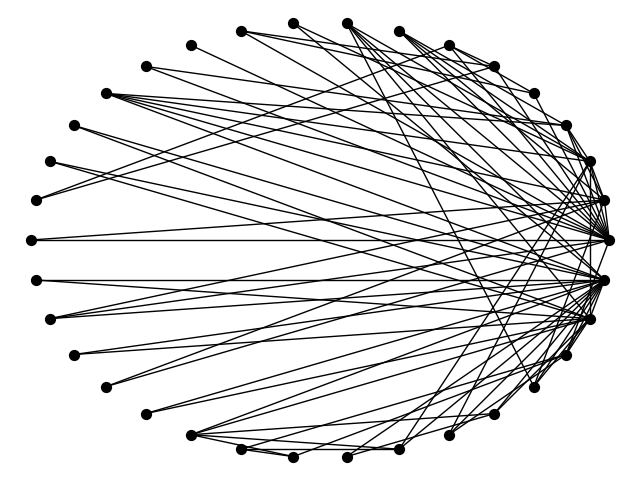
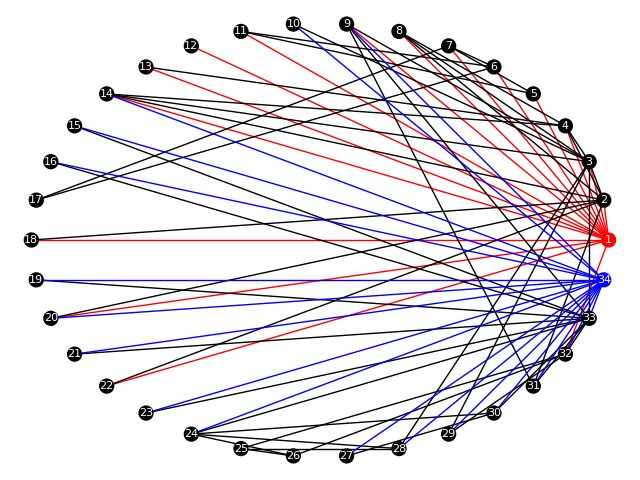
Added colors to graph.

diff --git a/graph.py b/graph.py
@@ -45,12 +45,32 @@ print(nx.closeness_centrality(G))
 print(nx.average_clustering(G))
 print(nx.connectivity.local_edge_connectivity(G, 1, 34))
 
+color_map_nodes=[]
+color_map_edges=[]
+
+for node in G:
+    if node==1:
+        color_map_nodes.append('red')
+    elif node==34:
+        color_map_nodes.append('blue')
+    else:
+        color_map_nodes.append('black')
+
+for edge in G.edges:
+    if edge[0]==1:
+        color_map_edges.append('red')
+    elif edge[1]==34:
+        color_map_edges.append('blue')
+    else:
+        color_map_edges.append('black')
+
 options = {
-    'node_color': 'black',
-    'node_size': 50,
+    'font_size': 8,
+    'font_color': 'white',
+    'node_size': 100,
     'width': 1,
 }
 
-nx.draw_circular(G, **options)
+nx.draw_circular(G, node_color=color_map_nodes, edge_color=color_map_edges, with_labels=True, **options)
 
 plt.show()
